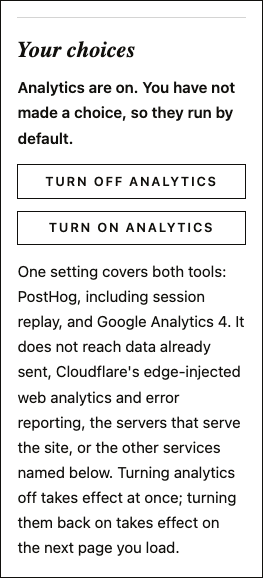
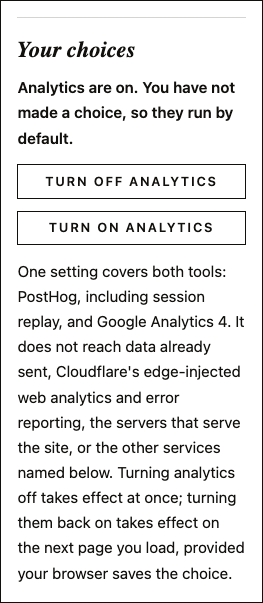
fix: neutral notice-closed wording; qualify Cloudflare; refresh screenshots (#1229)
- The notice's change announcement no longer claims another tab, since
  the same path handles back/forward-cache restores.
- The collection summary says Cloudflare's analytics can run depending
  on its settings and only where JavaScript runs.
- Regenerated the screenshots from the current build.

Changed region(s): [[0.0608, 0.0623, 0.943, 0.9654], [0.0913, 0.0, 0.9125, 0.0311]]

diff --git a/tests/privacy-ui.test.js b/tests/privacy-ui.test.js
@@ -243,7 +243,7 @@ describe('notice (PRIV-14, PRIV-6)', () => {
     deny.focus();
     click(w, deny);
     await new Promise((resolve) => setTimeout(resolve, 0));
-    expect(texts.join(' | ')).not.toContain('another tab');
+    expect(texts.join(' | ')).not.toContain('closed because your setting changed');
     expect(status.textContent).toBe('Analytics are off for this site in this browser.');
     expect(d.activeElement).toBe(status);
   });
@@ -256,7 +256,9 @@ describe('notice (PRIV-14, PRIV-6)', () => {
     otherTabWrites(w, { v: 1, choice: 'denied', noticeDismissed: false });
     expect(notice.hidden).toBe(true);
     expect(d.activeElement).toBe(d.getElementById('np-privacy-notice-status'));
-    expect(d.activeElement.textContent).toBe('The privacy notice was closed from another tab.');
+    expect(d.activeElement.textContent).toBe(
+      'The privacy notice closed because your setting changed.',
+    );
   });
 
   it('says so when the choice could not be saved', () => {

diff --git a/src/components/privacy/ui/notice.js b/src/components/privacy/ui/notice.js
@@ -95,7 +95,8 @@
     if (event.key === 'Escape') act('dismiss');
   });
 
-  // A choice or dismissal made in another tab arrives through the gate. If
+  // A choice or dismissal made in another tab, or picked up when a page is
+  // restored from the back/forward cache, arrives through the gate. If
   // that hides the notice while keyboard focus is inside it, hand focus to
   // the visible announcement, as a local action does, rather than leaving it
   // in a hidden subtree.
@@ -104,7 +105,7 @@
     var hadFocus = notice.contains(d.activeElement);
     sync();
     if (hadFocus && notice.hidden) {
-      announce('The privacy notice was closed from another tab.');
+      announce('The privacy notice closed because your setting changed.');
       status.focus();
     }
   });
